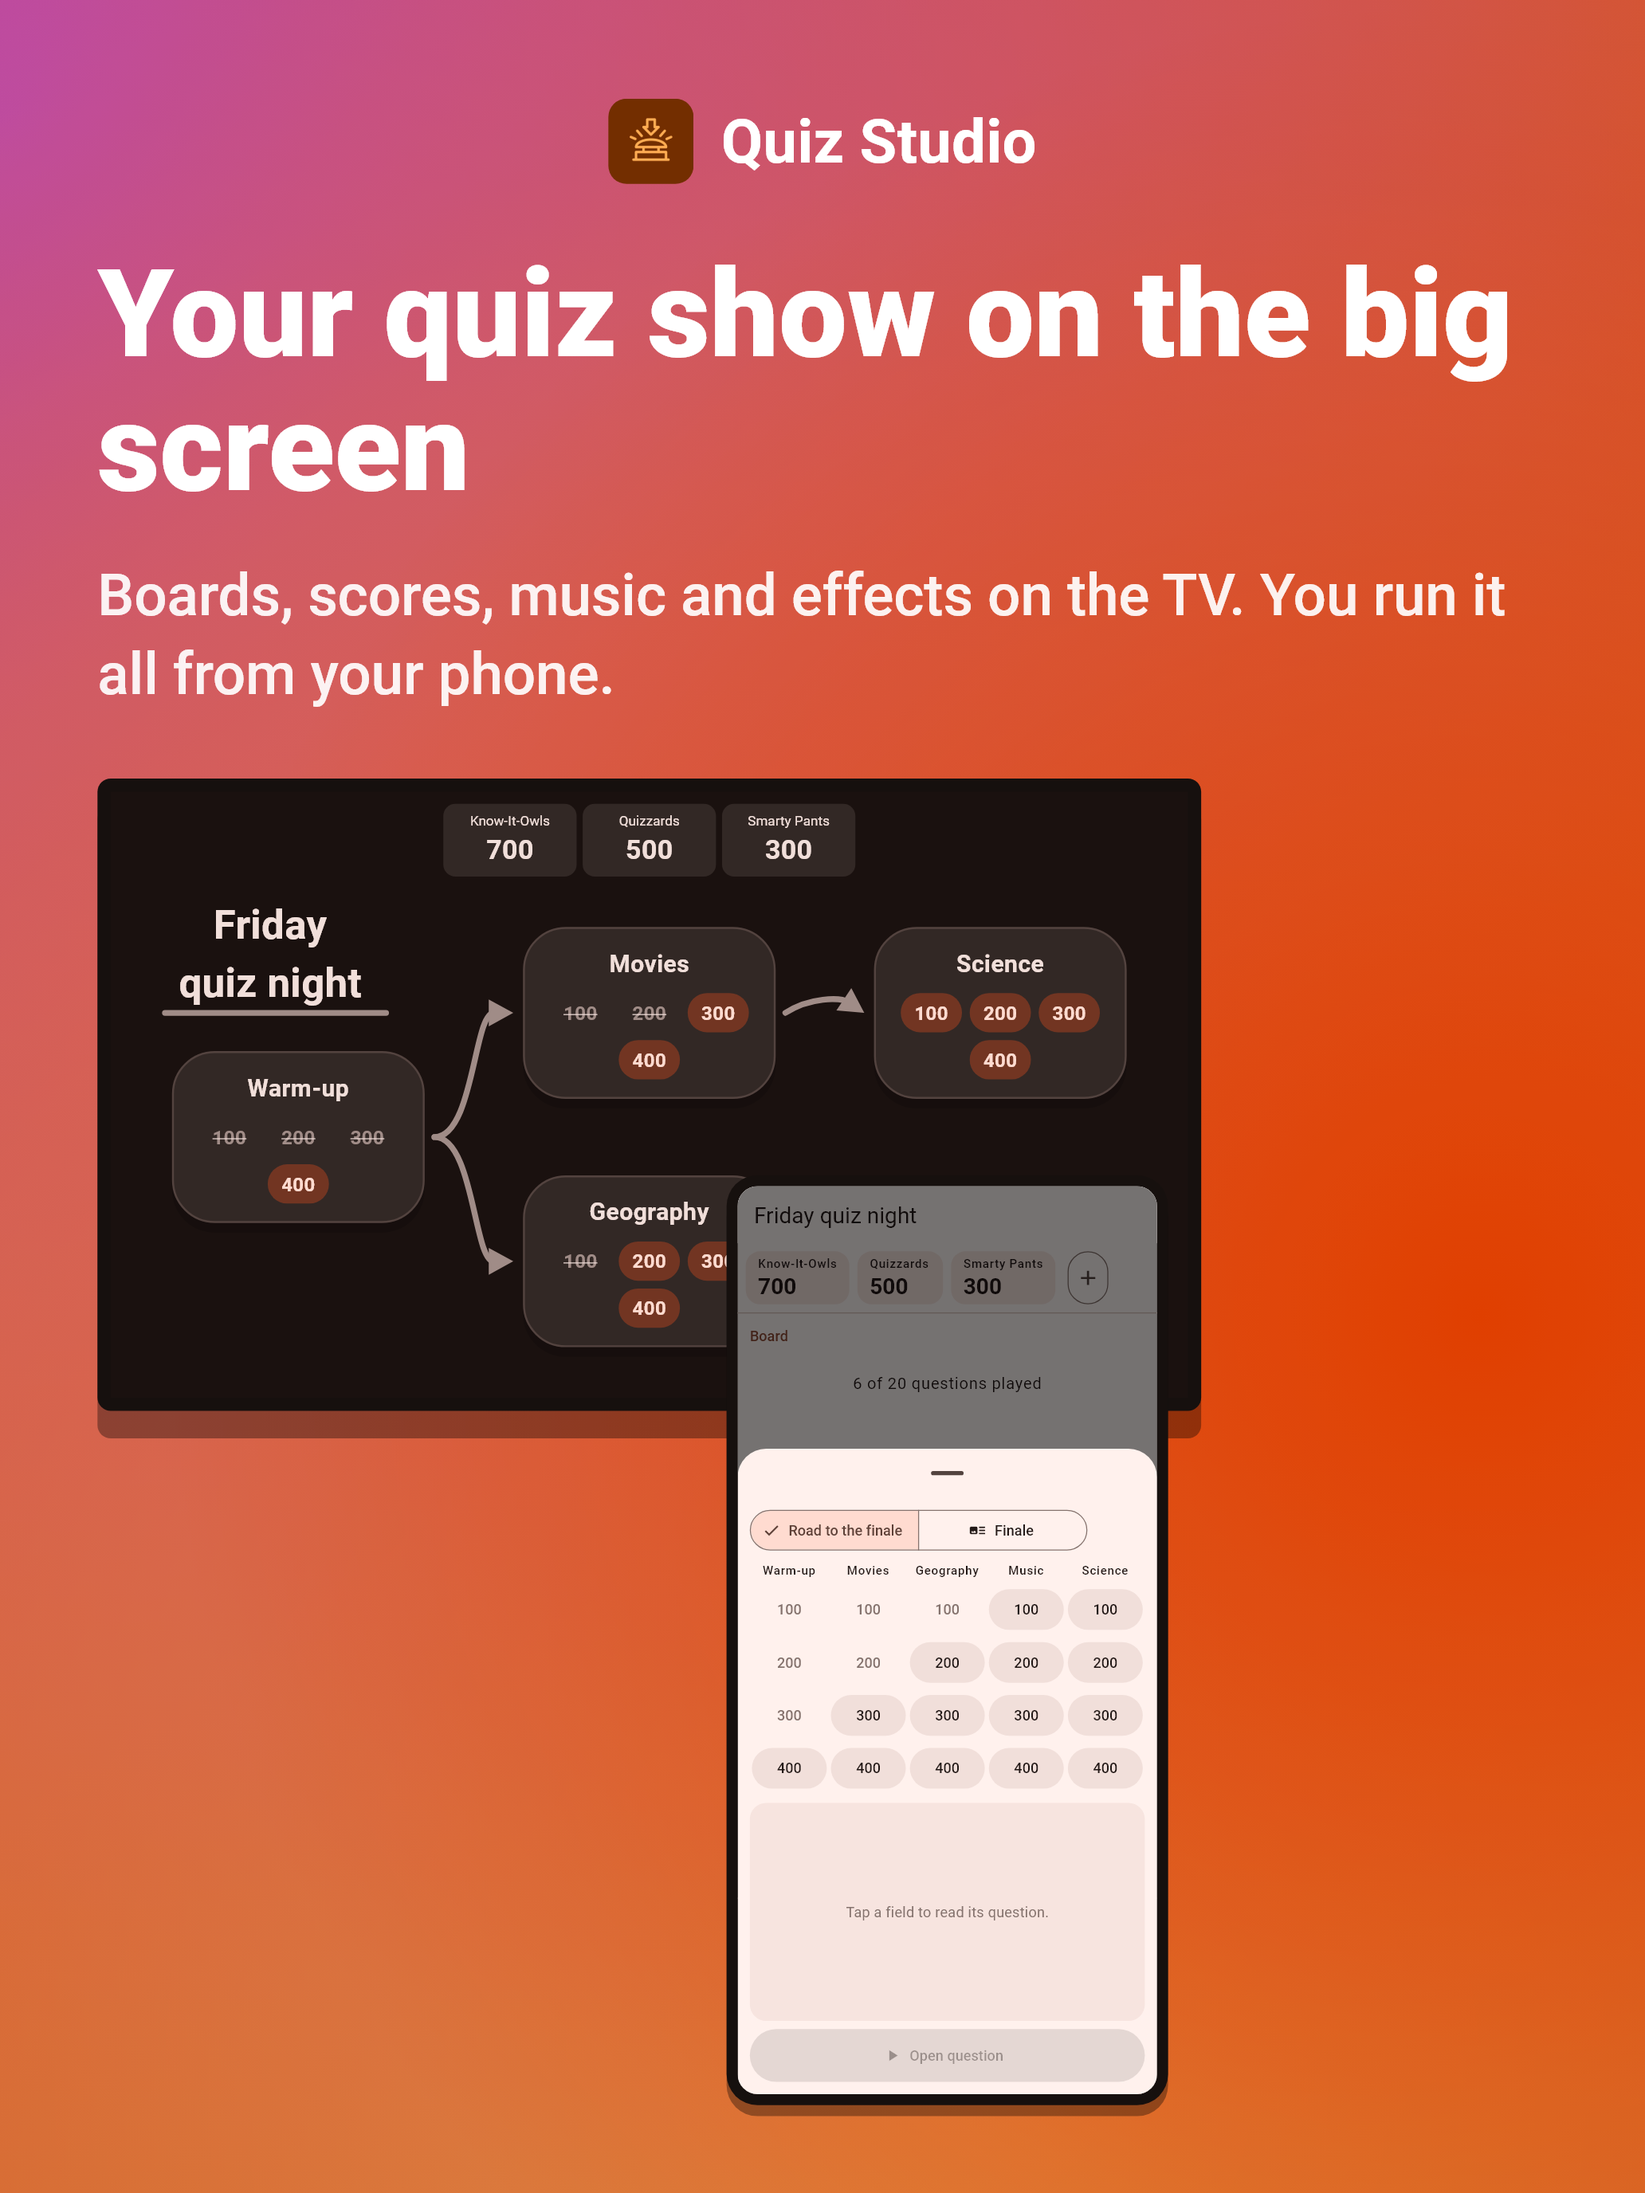
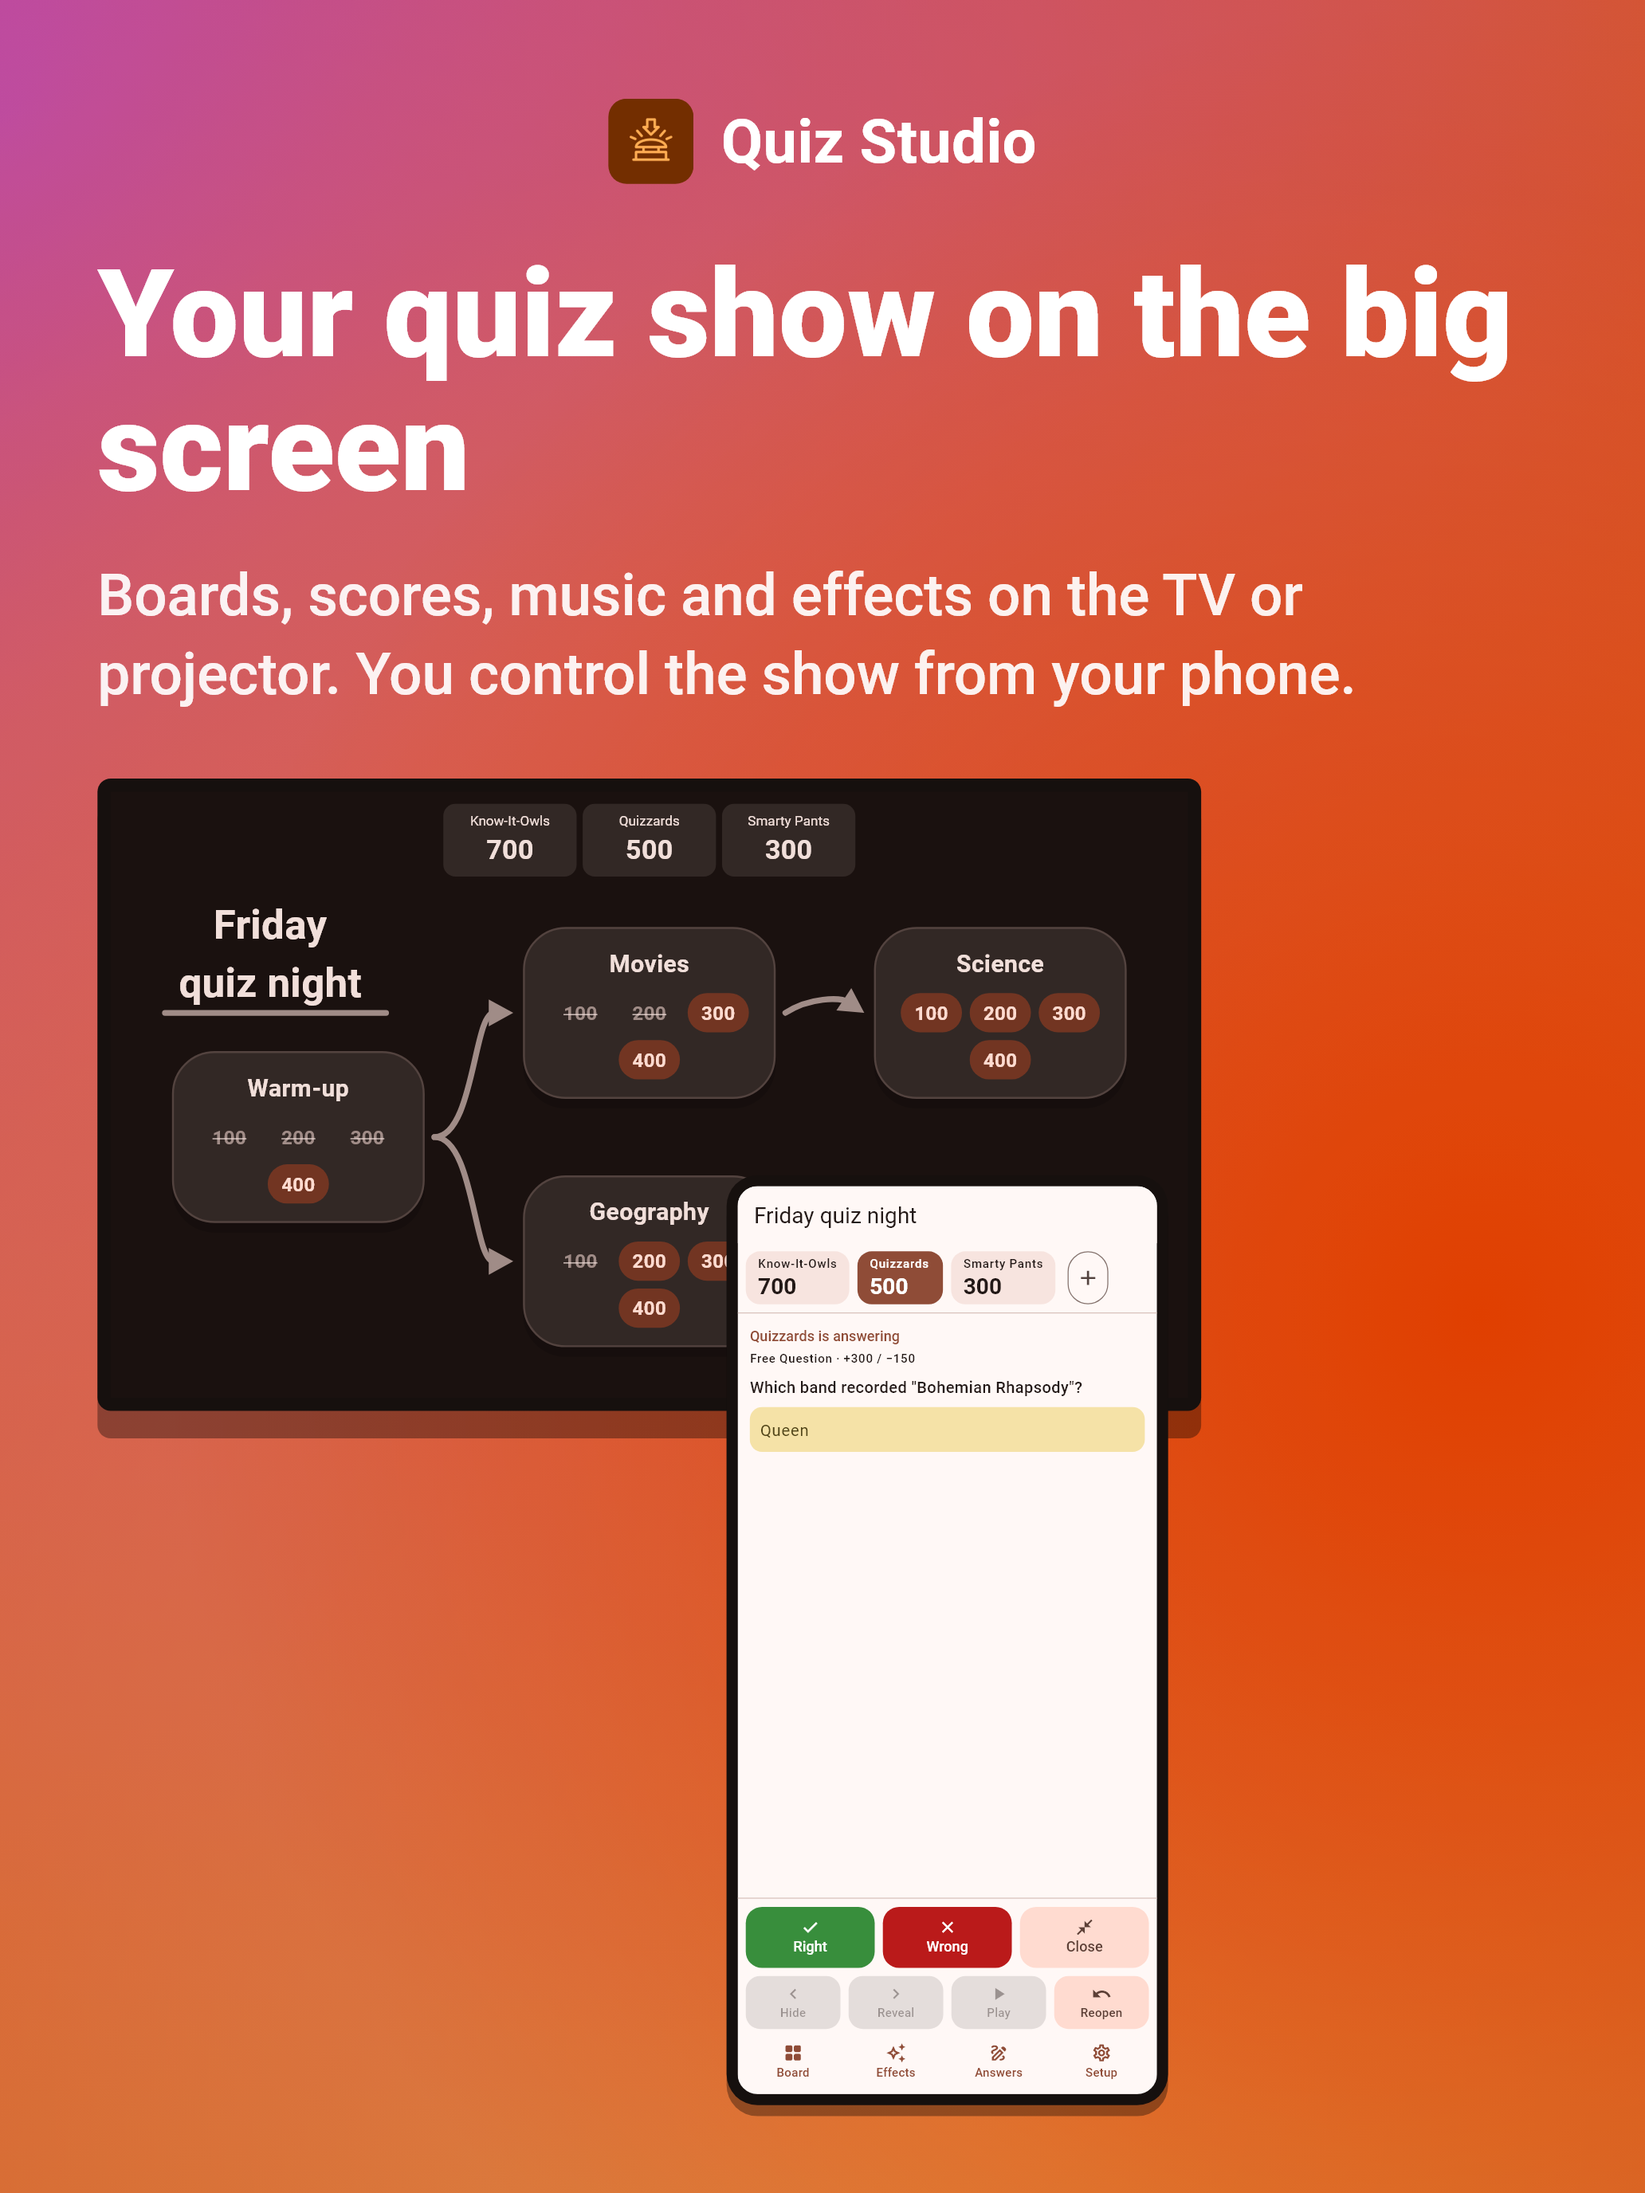
Store images: first one shows the controller during a buzzed question, last one a wheel board

Changed region(s): [[0.4341, 0.5312, 0.7132, 0.8125], [0.062, 0.25, 0.9302, 0.3438], [0.4341, 0.8438, 0.7132, 0.9688]]

diff --git a/tool/store_screenshots_test.dart b/tool/store_screenshots_test.dart
@@ -105,7 +105,6 @@ const _tabletTall = Size(820, 1180);
 
 Widget _tvDevice(Widget screen, double width) => Device(screen: _tv, width: width, dark: true, bezel: 0.012, radius: 0.012, child: screen);
 
-Widget _tabletDevice(Size size, Widget screen, double width) => Device(screen: size, width: width, radius: 0.04, child: screen);
 
 /// The big screen with a smaller device of [screen] size over its lower corner.
 (Size, Widget) _pair(bool wide, Widget tv, Size screen, Widget child, {required double width, bool left = false, bool dark = false, double drop = 0.62}) {
@@ -261,15 +260,10 @@ Widget _editor() {
 final _scenes = <String, Scene>{
   'board': Scene(
     "Your quiz show on the big screen",
-    "Boards, scores, music and effects on the TV. You run it all from your phone.",
+    "Boards, scores, music and effects on the TV or projector. You control the show from your phone.",
     (tester, wide) {
-      final host = _host(const []);
-      return _pair(wide, _presenter(host), _phone, _controller(host), width: 400);
-    },
-    act: (tester) async {
-      await tester.tap(find.widgetWithText(TextButton, 'Board'));
-      await tester.pump();
-      await tester.pump(const Duration(milliseconds: 600));
+      final controller = _host(const [OpenQuestion(QuestionRef('music', 'q2')), Buzz('quizzards')]);
+      return _pair(wide, _presenter(_host(const [])), _phone, _controller(controller), width: 400);
     },
   ),
   'controller': Scene("Every button where you expect it", "Right, wrong, reveal: the controller never moves its buttons around.", (tester, wide) {
@@ -293,10 +287,8 @@ final _scenes = <String, Scene>{
     final buzzer = _host(const [OpenQuestion(QuestionRef('music', 'q2'))]);
     return _pair(wide, _presenter(_host(_feud)), _phone, _player(buzzer, 'pants'), width: 340, drop: 0.92);
   }),
-  'editor': Scene("Build quizzes together", "Write categories and questions with friends. Invite them with a link.", (tester, wide) {
-    return wide
-        ? (const Size(1400, 1000), Center(child: _tabletDevice(_tabletWide, _editor(), 1350)))
-        : (const Size(1000, 1250), Center(child: _tabletDevice(_tabletTall, _editor(), 860)));
+  'editor': Scene("Build quizzes together", "Write categories and questions with friends, then spin the wheel on the big screen.", (tester, wide) {
+    return _pair(wide, _presenter(_host(const [SelectGroup('speed')])), _tabletTall, _editor(), width: 520, left: true, drop: 0.92);
   }),
 };
 

diff --git a/tool/store/showcase.dart b/tool/store/showcase.dart
@@ -22,7 +22,14 @@ const _texts = {
   'geography/q1': 'Which river flows through Vienna, Budapest and Belgrade?',
 };
 
+const _wheelNames = ['Sports', 'Food'];
+const _wheelIds = ['sports', 'food'];
+
+const _hints = {'music/q2': 'Queen'};
+
 const _labels = {
+  'sports': ['Football', 'Olympics', 'Tennis', 'Records'],
+  'food': ['Fruit', 'Cheese', 'Spices', 'Dishes'],
   'warmup': ['Animals', 'Food', 'Sports', 'Spider'],
   'movies': ['Quotes', 'Actors', 'Oscars', 'Sequels'],
   'geography': ['Capitals', 'Rivers', 'Flags', 'Borders'],
@@ -34,6 +41,7 @@ Map<String, dynamic> _plain(String category, int i) => {
       'type': 'free',
       'question': _texts['$category/q$i'] ?? '${_labels[category]![i]} question',
       'description': _labels[category]![i],
+      'answerHint': ?_hints['$category/q$i'],
       'pointsPlus': (i + 1) * 100,
       'pointsMinus': (i + 1) * 50,
     };
@@ -54,11 +62,14 @@ GameContent showcaseGame() => GameContent.assemble(
             ],
           },
         },
-        'final': {'name': 'Finale', 'categoryGroupType': 'category_display', 'categoryGroupIndex': 1},
+        'speed': {'name': 'Speed round', 'categoryGroupType': 'category_wheel', 'categoryGroupIndex': 1},
+        'final': {'name': 'Finale', 'categoryGroupType': 'category_display', 'categoryGroupIndex': 2},
       },
       categories: {
         for (var i = 0; i < _mapIds.length; i++)
           _mapIds[i]: {'name': _mapNames[i], 'categoryGroup': 'road', 'categoryIndex': i, 'active': true},
+        for (var i = 0; i < _wheelIds.length; i++)
+          _wheelIds[i]: {'name': _wheelNames[i], 'categoryGroup': 'speed', 'categoryIndex': i, 'active': true},
         'feud': {'name': 'Survey says', 'categoryGroup': 'final', 'categoryIndex': 0, 'active': true},
       },
       questions: {
@@ -88,6 +99,7 @@ GameContent showcaseGame() => GameContent.assemble(
                 'companion': {'kind': 'whiteboard', 'timer': 45},
               },
           },
+        for (final c in _wheelIds) c: {for (var i = 0; i < 4; i++) 'q$i': _plain(c, i)},
         'feud': {
           'beach': {
             'type': 'feud',
